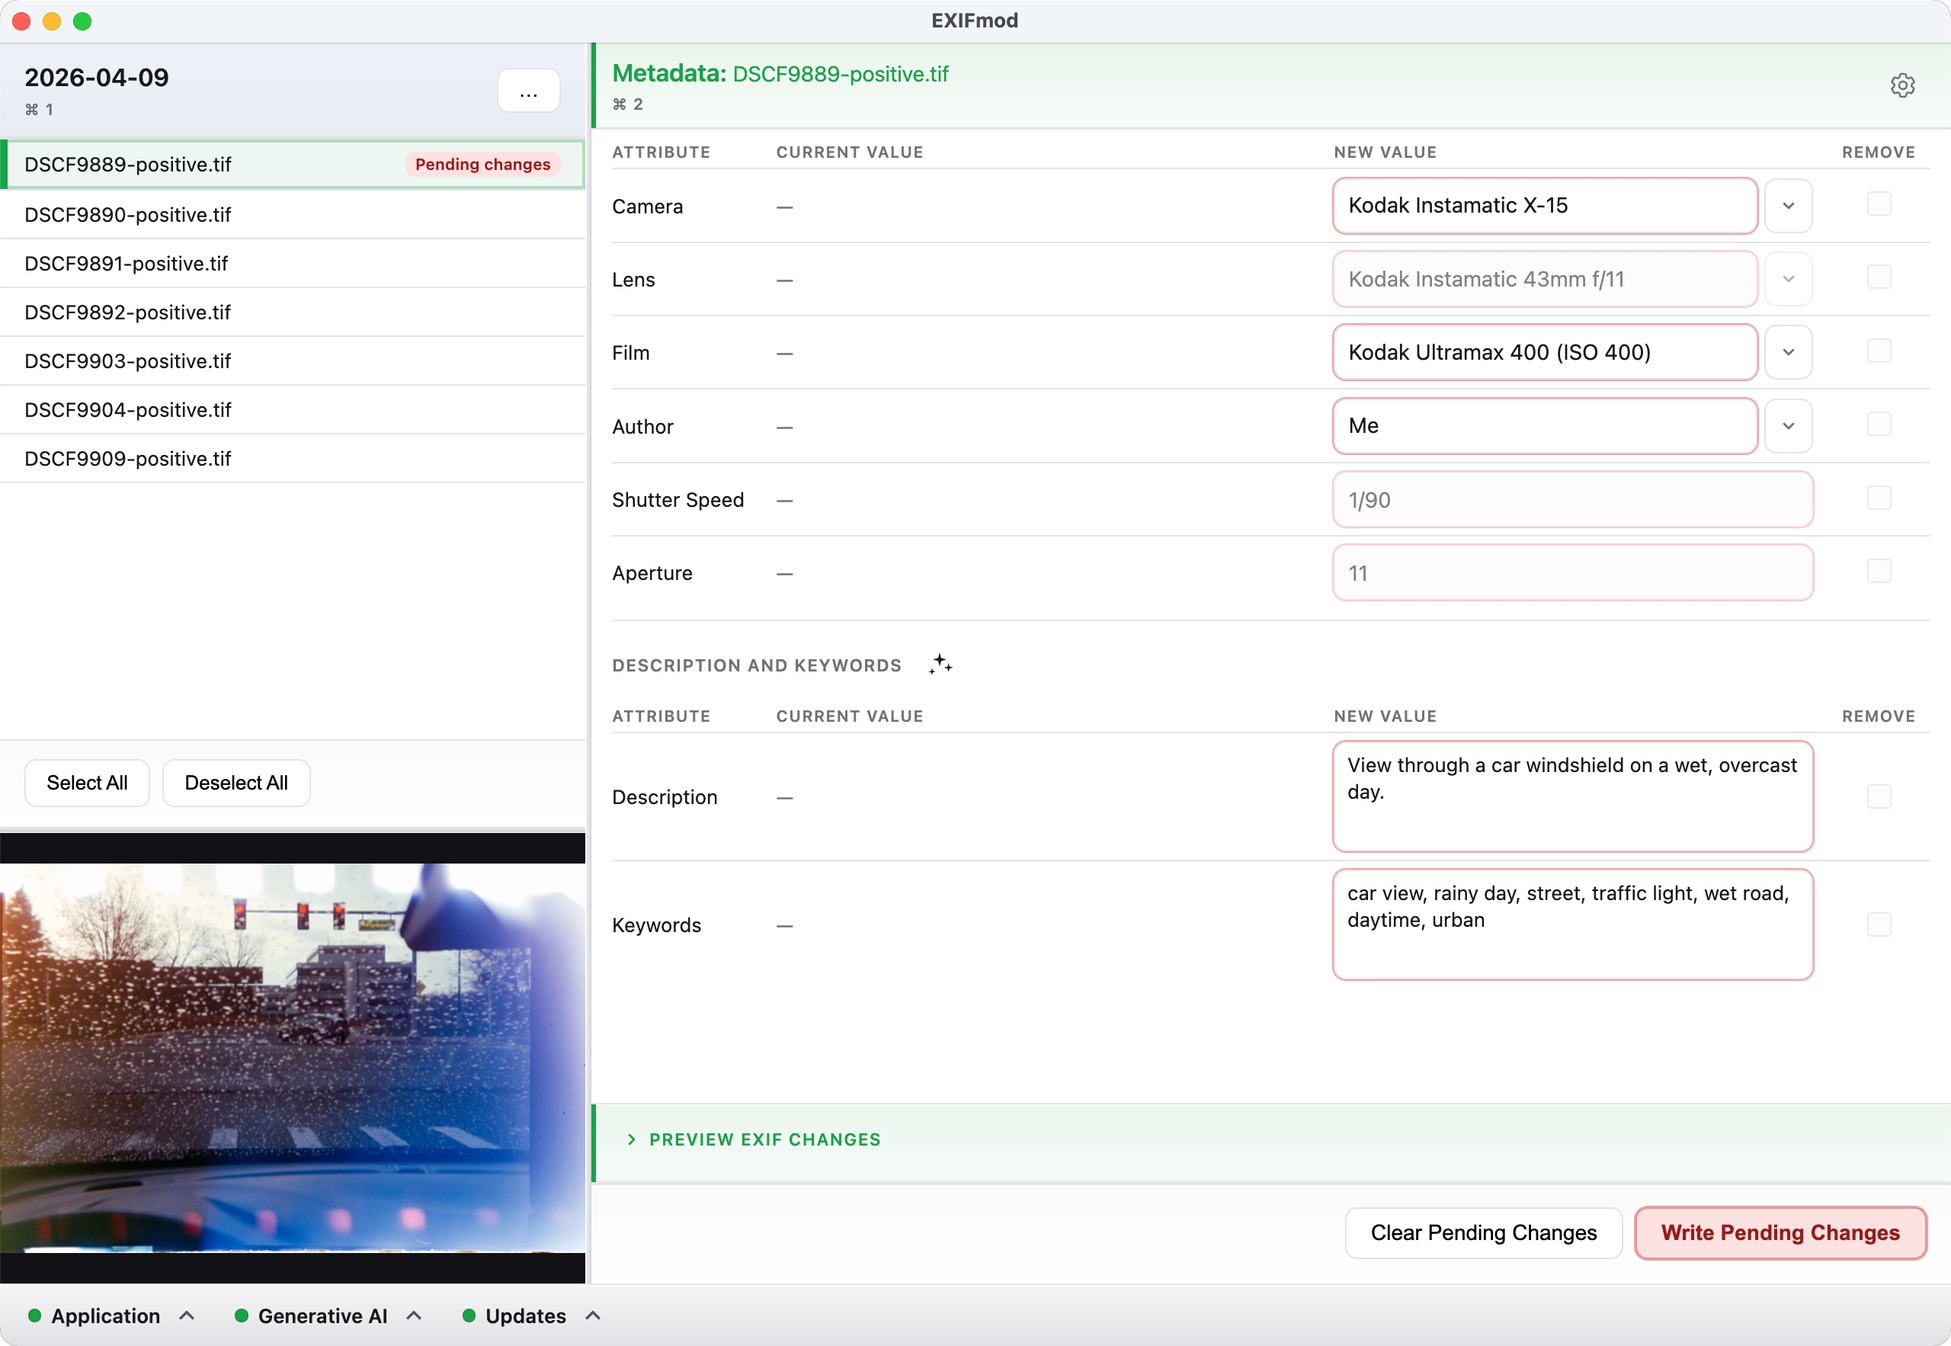
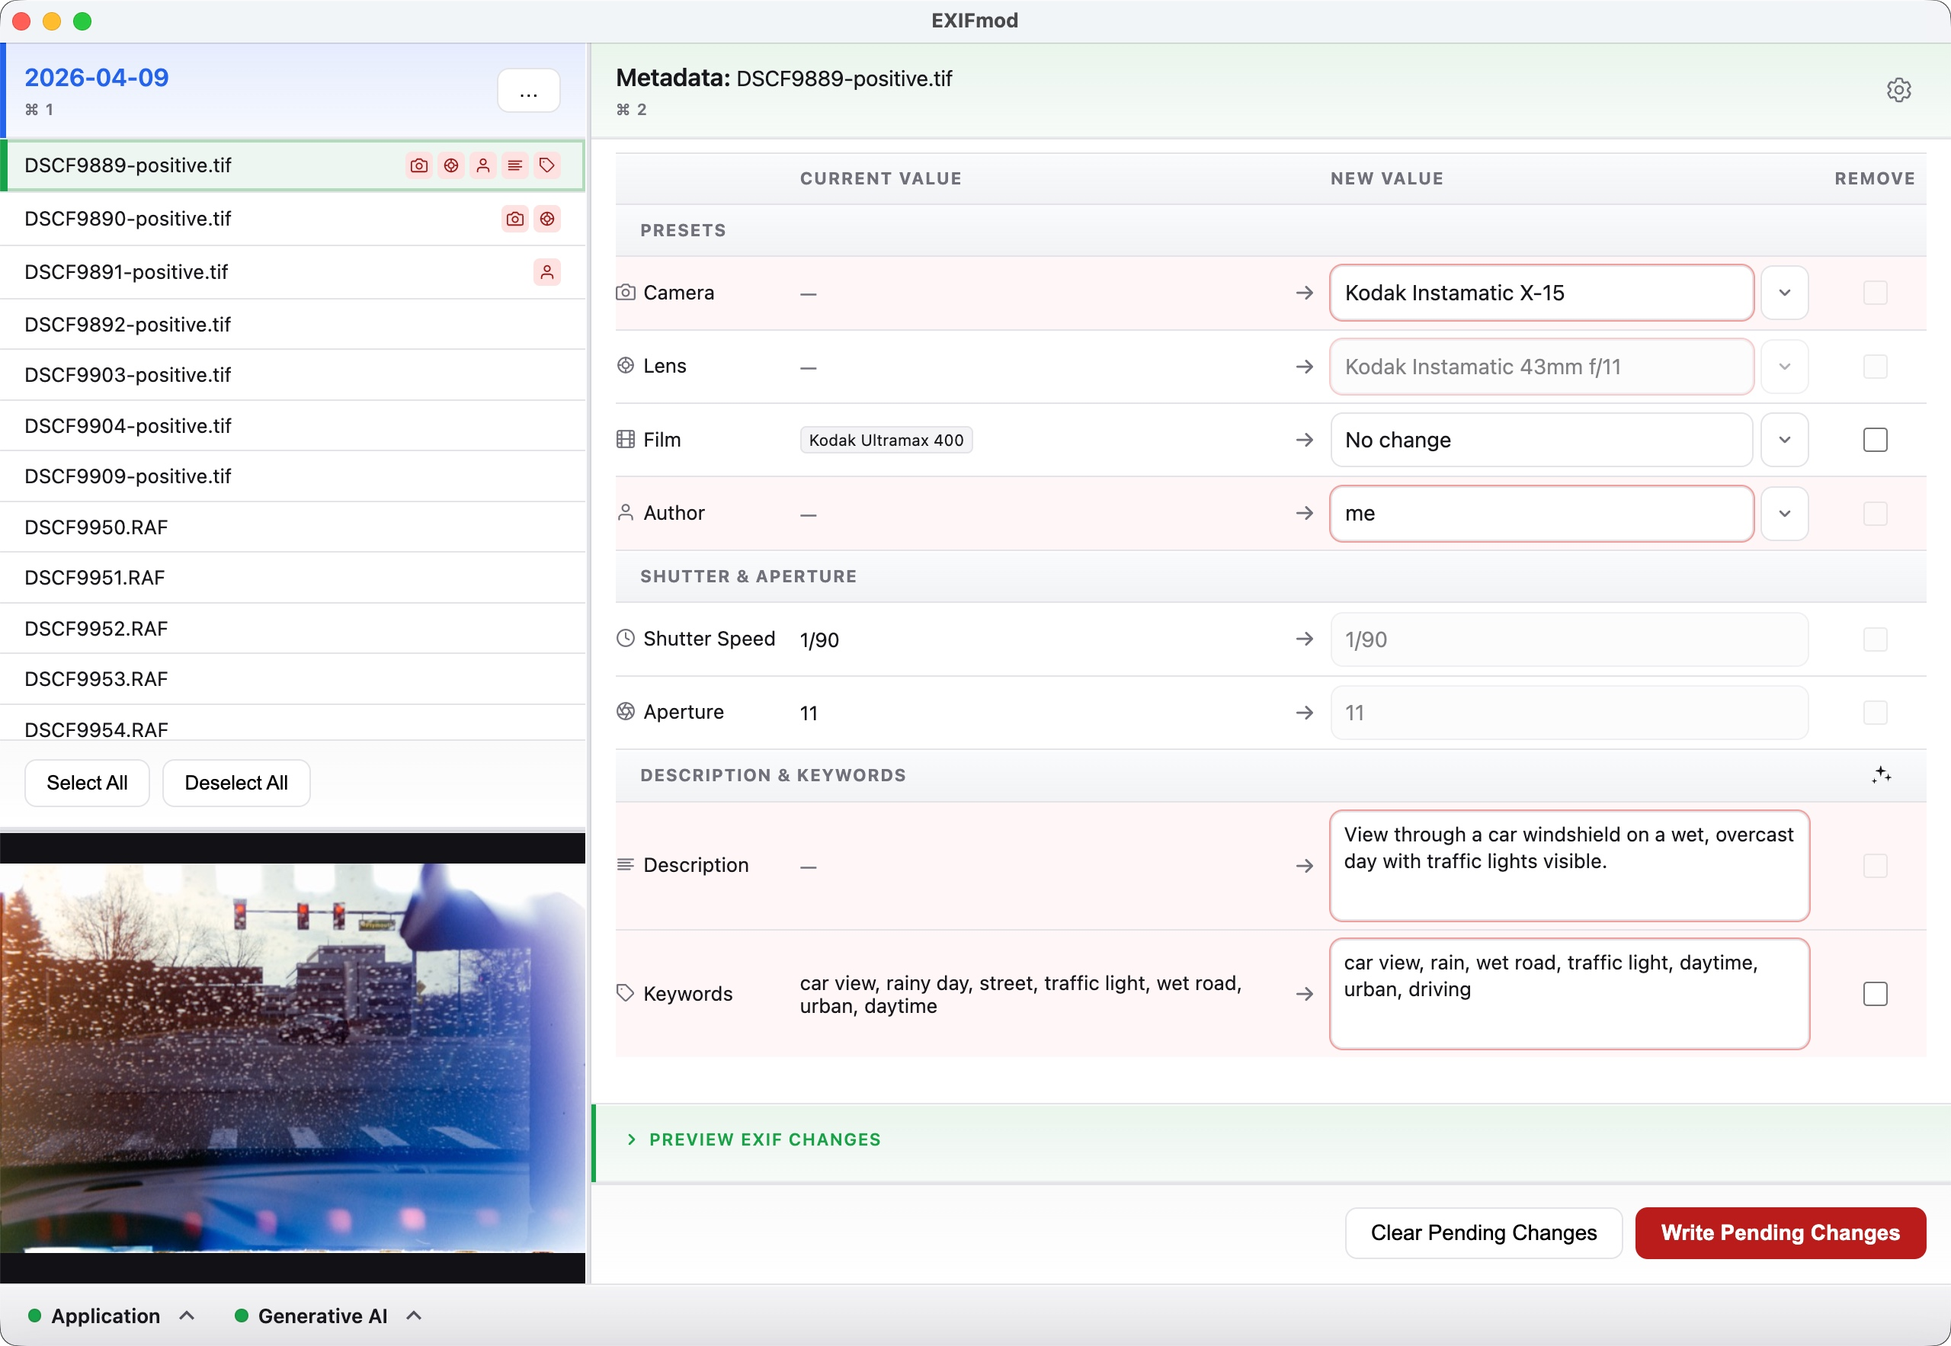
docs: mapping + user guide updates, site build, marketing images
- Sync exif-preset-mapping and AGENTS; refresh ollama/presets/workflow copy
- Rebuild website/docs; update hero screenshots; tweak user-docs TOC blurb

Made-with: Cursor

diff --git a/website/docs/presets.html b/website/docs/presets.html
@@ -77,7 +77,7 @@
 <h3>... from an existing preset (duplicate)</h3>
 <p>In Manage Presets, use the copy button to duplicate an existing preset. This can save you lots of time when you are building your catalog. Keep in mind that each preset must have a unique name, and must not be completely identical to any other preset (different presets can share some attributes (e.g. &quot;make&quot;), but they can&#39;t share <strong>all</strong> attributes.)</p>
 <h3>... from a selected file’s current metadata</h3>
-<p>If you already have files that you previously tagged with camera, lens, or author information, and you want to carry over this data into EXIFmod, select <strong>one</strong> file. In the metadata pane, under <strong>Presets</strong>, open the <strong>New value</strong> list for a category. When <strong>New preset from metadata…</strong> is available, choose it to open the preset editor with fields filled from the file. If that option is not in the list, the file may already match a catalog entry, or you have more than one file selected. Until you pick a real preset, <strong>No change</strong> means you are not assigning catalog metadata for that row; use <strong>Current value</strong> to see what the image already contains.</p>
+<p>If you already have files that you previously tagged with camera, lens, or author information, you can carry over this data into EXIFmod. To do that, select a <strong>single file</strong>, open the <strong>New value</strong> dropdown list for the relevant category, and choose <strong>New preset from metadata…</strong> If that option is not in the list, the file may already match a catalog entry, or you have more than one file selected. </p>
 <h2>Editing other metadata attributes</h2>
 <p>Additional metadata attributes can be edited with EXIFmod. These do not use presets because they tend to be unique per image. That being said, they can <strong>still be applied in bulk</strong> if you select multiple files.</p>
 <ul>

diff --git a/website/docs/ollama.html b/website/docs/ollama.html
@@ -50,7 +50,7 @@
 </code></pre>
 <p>That command downloads the model EXIFmod was actually tested with. The first download can take a while and can be large (several gigs). It might be worth it, even just for the giggles.</p>
 <h2>3. Using AI inside EXIFmod</h2>
-<p>Once Ollama is up and the model is pulled, use the in-app AI button (it looks kinda sparkly) to generate or refine descriptions and keywords from the current image. If the wording feels too short, too long, too generic, or too specific, you can adjust the system prompt in the app...  <strong>carefully!</strong> — a bad prompt can make the output sound like a furniture catalog (not a bad thing if you photograph for a furniture catalog... but not everyone does). If you break it, EXIFmod can reset the system prompt to the default. Phew!</p>
+<p>Once Ollama is up and the model is pulled, use the <strong>AI</strong> button in the <strong>Description &amp; Keywords</strong> section of the metadata pane (it looks kinda sparkly) to generate or refine descriptions and keywords from the current image. If the wording feels too short, too long, too generic, or too specific, you can adjust the system prompt in the app… <strong>carefully!</strong> — a bad prompt can make the output sound like a furniture catalog (not a bad thing if you photograph for a furniture catalog... but not everyone does). If you break it, EXIFmod can reset the system prompt to the default. Phew!</p>
 <h2>Advanced stuff</h2>
 <p>You usually don’t need this.</p>
 <ul>

diff --git a/website/docs/workflow.html b/website/docs/workflow.html
@@ -37,7 +37,7 @@
 <ol>
 <li>Open a folder — you’ll see a list of supported image files.</li>
 <li>Select one or more files in the list.</li>
-<li>Review and edit metadata in the right-hand pane (use presets for camera, lens, film, author, and the other fields as needed).</li>
+<li>Review and edit metadata in the right-hand pane (use presets for camera, lens, film, author, and the other fields as needed). Your pending changes will be indicated in the file list as icons.</li>
 <li>Preview EXIF changes (optional) — if you’re the type of person who finds comfort in a well-formed tag list, this feature is for you. You&#39;re welcome.</li>
 <li>Write pending changes — that applies your edits to the selected files.</li>
 </ol>

diff --git a/website/docs/index.html b/website/docs/index.html
@@ -50,7 +50,7 @@
     <li>
       <a href="presets.html">
         <span class="toc-title">Presets and metadata</span>
-        <span class="blurb">The preset catalog and the metadata table, explained in plain terms.</span>
+        <span class="blurb">The preset catalog, how the metadata sections fit together, and the shared current → new layout.</span>
       </a>
     </li>
     <li>

diff --git a/docs/exif-preset-mapping.md b/docs/exif-preset-mapping.md
@@ -162,12 +162,12 @@ After merging the four preset selections, the app may add:
 | `ExposureTime`      | Camera preset when **`fixed_shutter`** is set, else manual “Shutter Speed” when non-empty                                                                                                                                                                                                                                                    | Shutter Speed                                                                     |
 | `FNumber`           | Camera preset when **`fixed_aperture`** is set, else manual aperture when non-empty                                                                                                                                                                                                                                                          | Aperture                                                                          |
 | `ImageDescription`  | **Description** textarea when non-empty after trim; if empty, **omit** manual write (leave on-file value). **Remove** checkbox forces clear (`ImageDescription` empty)                                                                                                                                                                       | Description                                                                       |
-| `Keywords`          | **Film identity** (`film`, `… Film Stock`) and **descriptive** keywords are merged separately (`buildMergedKeywordsForWrite` in `src/shared/filmKeywords.ts`). Film tokens come from the merged Film preset (last preset wins on `Keywords`) or, if the preset supplies none, from the file’s existing keywords. Film marker and `Film Stock` matching are case-insensitive, and the marker is canonicalized to lowercase `film` on write. Descriptive tokens come from the **New Keywords** field (film tokens stripped for that lane); the visible **New Keywords** textarea is always **descriptive-only** (`formatDescriptiveKeywordsLine` in `src/shared/filmKeywords.ts`), including after **Copy** and **AI** updates. When the New field is empty, descriptives fall back to the last-read file keywords (also with film identity stripped) so edits elsewhere do not wipe unrelated keywords. `fitKeywordsForExif` applies after merge. **Remove Keywords** forces full clear | Keywords                                                                          |
+| `Keywords`          | **Film identity** (`film`, `… Film Stock`) and **descriptive** keywords are merged separately (`buildMergedKeywordsForWrite` in `src/shared/filmKeywords.ts`). Film tokens come from the merged Film preset (last preset wins on `Keywords`) or, if the preset supplies none, from the file’s existing keywords. Film marker and `Film Stock` matching are case-insensitive, and the marker is canonicalized to lowercase `film` on write. Descriptive tokens come from the **New Keywords** field (film tokens stripped for that lane); the visible **New Keywords** textarea is always **descriptive-only** (`formatDescriptiveKeywordsLine` in `src/shared/filmKeywords.ts`), including after **AI** and other in-app updates. When the New field is empty, descriptives fall back to the last-read file keywords (also with film identity stripped) so edits elsewhere do not wipe unrelated keywords. `fitKeywordsForExif` applies after merge. **Remove Keywords** forces full clear | Keywords                                                                          |
 
 
-The metadata pane uses a four-column main table (Attribute  Current  New  **Remove**) and a five-column Description/Keywords table (Attribute  Current  **Copy**  New  **Remove**). The Description/Keywords subsection title groups the second table and the AI control. Remove checkboxes are tri-state when multiple files are staged and per-file clear flags disagree: the native checkbox indeterminate state is used; the next click sets a single boolean for all staged files.
+The metadata pane is a **single** `table` with a **sticky** `thead` (same “section bar” look as the subsection delimiters: gradient, rules, uppercase column titles). All rows use the same five columns: attribute / **Current value** / **→** / **New value** / **Remove** (the `thead`’s first cell has no visible label; `ui.attribute` is exposed to assistive tech only). **Subsection** rows mark **Presets** (per-category), **Shutter & Aperture** (exposure), and **Description & Keywords**; the **AI** control lives in the last subsection’s heading. Remove checkboxes are tri-state when multiple files are staged and per-file clear flags disagree: the native checkbox indeterminate state is used; the next click sets a single boolean for all staged files.
 
-The Description/Keywords header includes an AI control when at least one staged file has remaining room in the pending New Description field. The renderer passes `remainingUtf8BytesForAiDescription` from the pending `notesText` (not the on-file description) so AI append is scoped to **New** only. Single-file selection runs AI immediately. Multi-file selection opens a confirmation dialog, then invokes Ollama **sequentially** per file. Each request sends a **384px** max-edge JPEG (same decode path as thumbnails, resized smaller for Ollama than the 640px list preview). Results append to each file’s pending New Description (respecting `IMAGEDESCRIPTION_MAX_UTF8_BYTES` and separator bytes via `mergeImageDescriptionAppend`) and merge into pending New Keywords with dedupe (`mergeKeywordsDeduped` + `fitKeywordsForExif`). Internally the merge still prepends film identity from the **current file** so AI output cannot drop film stock markers, but the **New Keywords** string shown in the UI is then reduced to **descriptive-only** text via `formatDescriptiveKeywordsLine` (same pattern as metadata refresh and **Copy**). Film marker / stock matching in this path is case-insensitive, and writes still canonicalize the marker to lowercase `film`.
+The **Description & Keywords** subsection heading includes an AI control when at least one staged file has remaining room in the pending New Description field. The renderer passes `remainingUtf8BytesForAiDescription` from the pending `notesText` (not the on-file description) so AI append is scoped to **New** only. Single-file selection runs AI immediately. Multi-file selection opens a confirmation dialog, then invokes Ollama **sequentially** per file. Each request sends a **384px** max-edge JPEG (same decode path as thumbnails, resized smaller for Ollama than the 640px list preview). Results append to each file’s pending New Description (respecting `IMAGEDESCRIPTION_MAX_UTF8_BYTES` and separator bytes via `mergeImageDescriptionAppend`) and merge into pending New Keywords with dedupe (`mergeKeywordsDeduped` + `fitKeywordsForExif`). Internally the merge still prepends film identity from the **current file** so AI output cannot drop film stock markers, but the **New Keywords** string shown in the UI is then reduced to **descriptive-only** text via `formatDescriptiveKeywordsLine` (same pattern as on metadata refresh). Film marker / stock matching in this path is case-insensitive, and writes still canonicalize the marker to lowercase `film`.
 
 Errors on one file do not abort the batch; after the run, a dialog can list failures and offer retry for failed files. The HTTP client only allows loopback hosts (`127.0.0.1`, `localhost`, `::1`). Default base URL `http://127.0.0.1:11434`, default model `gemma4` (overridable via `EXIFMOD_OLLAMA_HOST` / `EXIFMOD_OLLAMA_MODEL`). On launch, the main process runs a text-only `/api/chat` warmup to the same model; if warmup fails and the `ollama` CLI is not on `PATH`, the AI control stays off for the session. If warmup fails but the CLI exists, the renderer shows a collapsible drawer next to the AI button to start `ollama serve` (no modal); **Not now** collapses the drawer, which the user can expand again. On app quit, EXIFmod stops the `ollama serve` process only if it spawned it in that session after opt-in; it does not stop Ollama that was already running at launch.
 

diff --git a/AGENTS.md b/AGENTS.md
@@ -51,7 +51,7 @@ Path aliases: `@shared` → `src/shared`, `@renderer` → `src/renderer/src` (se
 **UI copy / localization:**
 - All strings go through **`locales/en.json`** (and **`locales/fr.json`** for French). New locales require registering the base code in `src/shared/i18n/resolveLocale.ts`. Preserve `{{placeholders}}` in translations.
 - **English headline copy (Title Case):** Strings used as **modal headings**, **panel chrome titles** (metadata header, preset editor header, status footer `panelTitle`, etc.), **native dialog titles**, **tutorial step titles**, and similar short headlines should use **Title Case** in `locales/en.json`. Do **not** apply this to body paragraphs, hints, errors, or long explanations.
-- **Exception — CSS forces ALL CAPS:** Some labels are shown in uppercase via `text-transform: uppercase` in [src/renderer/src/App.css](src/renderer/src/App.css) (e.g. `table.mapping thead th`, `.meta-section h2`, `.meta-subsection-title`, `.exif-preview-toggle`, `.preset-slideout-cat-title`). Source strings for those elements are still uppercased in the UI regardless of JSON casing; do not “fix” them for Title Case unless you are changing actual wording.
+- **Exception — CSS forces ALL CAPS:** Some labels are shown in uppercase via `text-transform: uppercase` in [src/renderer/src/App.css](src/renderer/src/App.css) (e.g. `table.mapping thead th`, `tr.meta-mapping-section-subhead`, `.meta-section h2`, `.meta-subsection-title`, `.exif-preview-toggle`, `.preset-slideout-cat-title`). Source strings for those elements are still uppercased in the UI regardless of JSON casing; do not “fix” them for Title Case unless you are changing actual wording.
 - **French:** Use French sentence-style capitalization in `locales/fr.json` for the same keys; do not mirror English Title Case mechanically.
 
 ## Commands

diff --git a/docs/user/ollama.md b/docs/user/ollama.md
@@ -26,7 +26,7 @@ That command downloads the model EXIFmod was actually tested with. The first dow
 
 ## 3. Using AI inside EXIFmod
 
-Once Ollama is up and the model is pulled, use the in-app AI button (it looks kinda sparkly) to generate or refine descriptions and keywords from the current image. If the wording feels too short, too long, too generic, or too specific, you can adjust the system prompt in the app...  **carefully!** — a bad prompt can make the output sound like a furniture catalog (not a bad thing if you photograph for a furniture catalog... but not everyone does). If you break it, EXIFmod can reset the system prompt to the default. Phew!
+Once Ollama is up and the model is pulled, use the **AI** button in the **Description & Keywords** section of the metadata pane (it looks kinda sparkly) to generate or refine descriptions and keywords from the current image. If the wording feels too short, too long, too generic, or too specific, you can adjust the system prompt in the app… **carefully!** — a bad prompt can make the output sound like a furniture catalog (not a bad thing if you photograph for a furniture catalog... but not everyone does). If you break it, EXIFmod can reset the system prompt to the default. Phew!
 
 ## Advanced stuff
 

diff --git a/docs/user/presets.md b/docs/user/presets.md
@@ -36,7 +36,7 @@ In Manage Presets, use the copy button to duplicate an existing preset. This can
 
 ### ... from a selected file’s current metadata
 
-If you already have files that you previously tagged with camera, lens, or author information, and you want to carry over this data into EXIFmod, select **one** file. In the metadata pane, under **Presets**, open the **New value** list for a category. When **New preset from metadata…** is available, choose it to open the preset editor with fields filled from the file. If that option is not in the list, the file may already match a catalog entry, or you have more than one file selected. Until you pick a real preset, **No change** means you are not assigning catalog metadata for that row; use **Current value** to see what the image already contains.
+If you already have files that you previously tagged with camera, lens, or author information, you can carry over this data into EXIFmod. To do that, select a **single file**, open the **New value** dropdown list for the relevant category, and choose **New preset from metadata…** If that option is not in the list, the file may already match a catalog entry, or you have more than one file selected. 
 
 ## Editing other metadata attributes
 

diff --git a/docs/user/workflow.md b/docs/user/workflow.md
@@ -2,7 +2,7 @@
 
 1. Open a folder — you’ll see a list of supported image files.
 2. Select one or more files in the list.
-3. Review and edit metadata in the right-hand pane (use presets for camera, lens, film, author, and the other fields as needed).
+3. Review and edit metadata in the right-hand pane (use presets for camera, lens, film, author, and the other fields as needed). Your pending changes will be indicated in the file list as icons.
 4. Preview EXIF changes (optional) — if you’re the type of person who finds comfort in a well-formed tag list, this feature is for you. You're welcome.
 5. Write pending changes — that applies your edits to the selected files.
 
